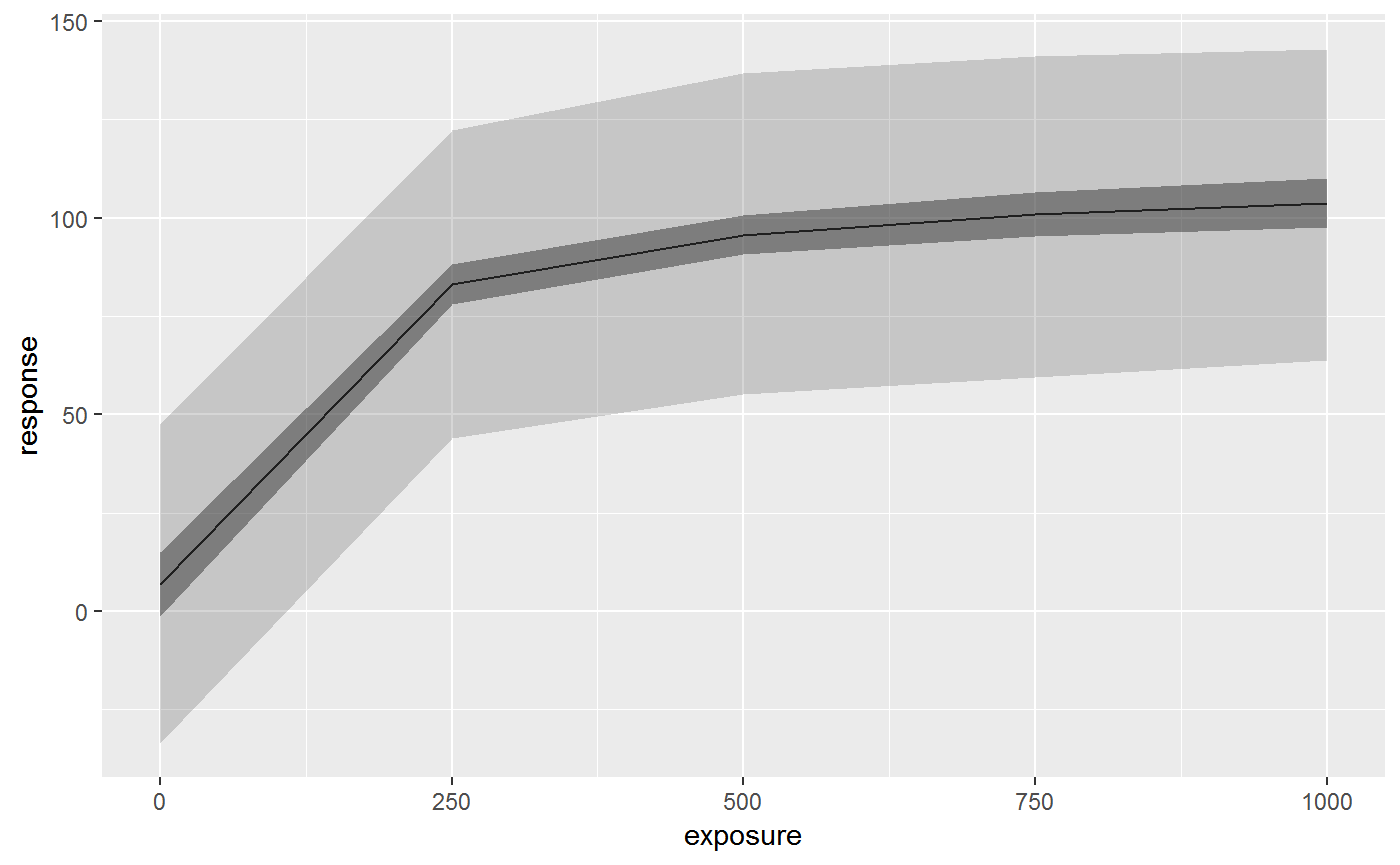
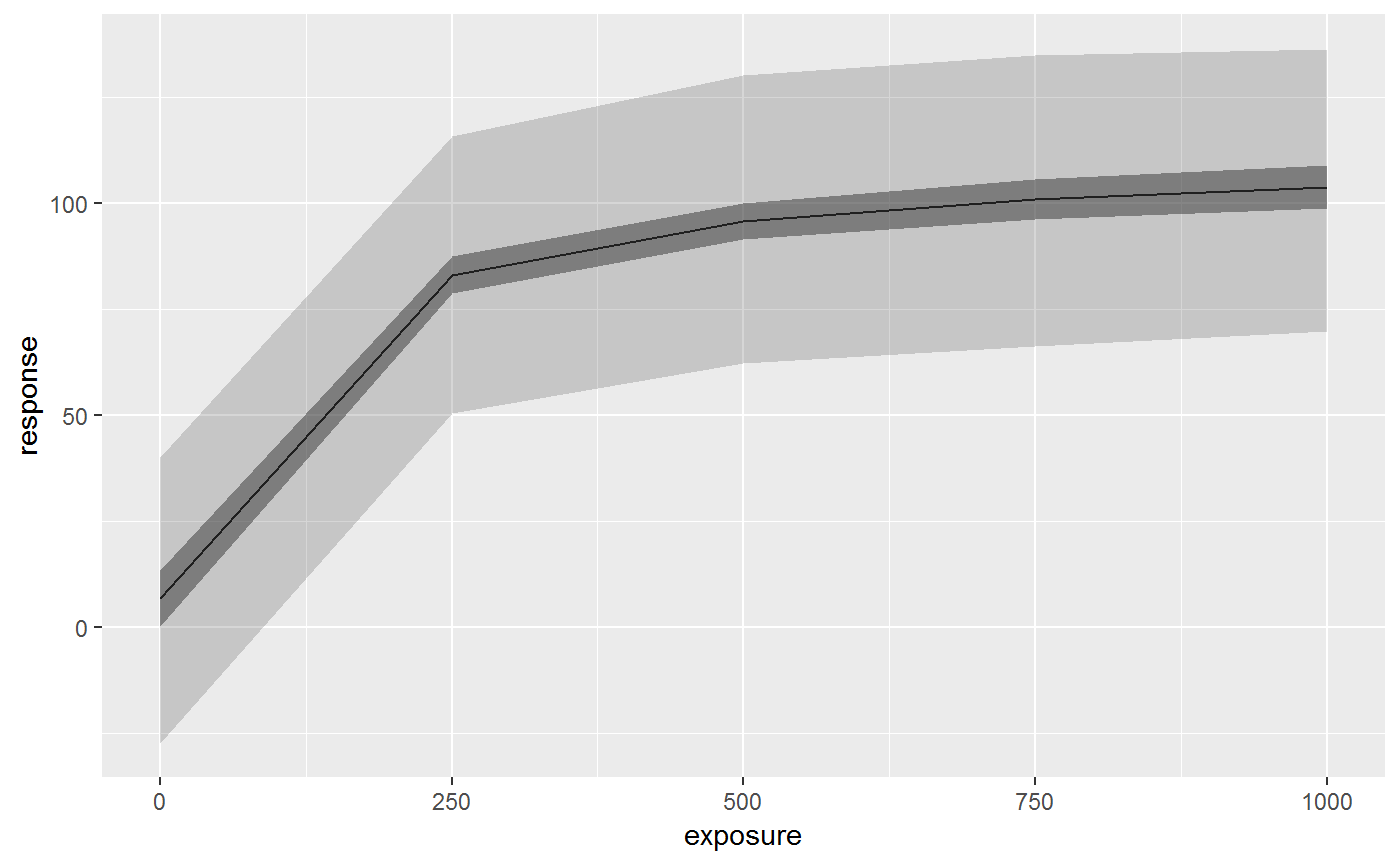
Update site

diff --git a/docs/articles/emaxmodel.html b/docs/articles/emaxmodel.html
@@ -30,7 +30,7 @@
       </button>
       <span class="navbar-brand">
         <a class="navbar-link" href="../index.html">rstanemax</a>
-        <span class="version label label-default" data-toggle="tooltip" data-placement="bottom" title="Released version">0.0.1.0</span>
+        <span class="version label label-default" data-toggle="tooltip" data-placement="bottom" title="Released version">0.1.0</span>
       </span>
     </div>
 
@@ -80,7 +80,7 @@
       <h1>Simple Emax model fit with Stan</h1>
                         <h4 class="author">Kenta Yoshida</h4>
             
-            <h4 class="date">2019-04-10</h4>
+            <h4 class="date">2019-05-28</h4>
       
       <small class="dont-index">Source: <a href="https://github.com/yoshidk6/rstanemax/blob/master/vignettes/emaxmodel.Rmd"><code>vignettes/emaxmodel.Rmd</code></a></small>
       <div class="hidden name"><code>emaxmodel.Rmd</code></div>
@@ -100,7 +100,7 @@
 <div id="model-run-with-stan_emax-function" class="section level2">
 <h2 class="hasAnchor">
 <a href="#model-run-with-stan_emax-function" class="anchor"></a>Model run with <code>stan_emax</code> function</h2>
-<p><code><a href="../reference/stan_emax.html">stan_emax()</a></code> is the main function of this package to perfrom Emax model analysis on the data. This function requires minimum two input arguments - <code>formula</code> and <code>data</code>. In the <code>formula</code> argument, you will specify which columns of <code>data</code> will be used as exposure and response data, in a format similar to <code><a href="https://www.rdocumentation.org/packages/stats/topics/lm">stats::lm()</a></code> function, e.g. <code>response ~ exposure</code>.</p>
+<p><code><a href="../reference/stan_emax.html">stan_emax()</a></code> is the main function of this package to perform Emax model analysis on the data. This function requires minimum two input arguments - <code>formula</code> and <code>data</code>. In the <code>formula</code> argument, you will specify which columns of <code>data</code> will be used as exposure and response data, in a format similar to <code><a href="https://www.rdocumentation.org/packages/stats/topics/lm">stats::lm()</a></code> function, e.g. <code>response ~ exposure</code>.</p>
 <div class="sourceCode"><pre class="sourceCode r"><code class="sourceCode r"><span class="kw"><a href="https://www.rdocumentation.org/packages/utils/topics/data">data</a></span>(exposure.response.sample)
 
 fit.emax &lt;-<span class="st"> </span><span class="kw"><a href="../reference/stan_emax.html">stan_emax</a></span>(response <span class="op">~</span><span class="st"> </span>exposure, <span class="dt">data =</span> exposure.response.sample)</code></pre></div>
@@ -116,7 +116,7 @@ fit.emax &lt;-<span class="st"> </span><span class="kw"><a href="../reference/st
 <span class="co">#&gt; gamma   1.00     NaN  0.00  1.00   1.00   1.00   1.00   1.00   NaN  NaN</span>
 <span class="co">#&gt; sigma  20.05    0.03  1.35 17.62  19.10  19.97  20.92  22.85  2930    1</span>
 <span class="co">#&gt; </span>
-<span class="co">#&gt; Samples were drawn using NUTS(diag_e) at Wed Apr 10 13:53:20 2019.</span>
+<span class="co">#&gt; Samples were drawn using NUTS(diag_e) at Tue May 28 22:02:37 2019.</span>
 <span class="co">#&gt; For each parameter, n_eff is a crude measure of effective sample size,</span>
 <span class="co">#&gt; and Rhat is the potential scale reduction factor on split chains (at </span>
 <span class="co">#&gt; convergence, Rhat=1).</span></code></pre></div>
@@ -150,23 +150,22 @@ response.pred <span class="op">%&gt;%</span><span class="st"> </span><span class
 <span class="co">#&gt;  9      3     1000  108.    130.   </span>
 <span class="co">#&gt; 10      4        0    4.16    3.16 </span>
 <span class="co">#&gt; # ... with 11,990 more rows</span></code></pre></div>
-<p>You can also get quantiles of predictions with <code><a href="../reference/posterior_predict.html">posterior_predict_quantile()</a></code> function. Currently this function only export 95% credible intervals of mean response and 95% prediction intervals of individual responses.</p>
+<p>You can also get quantiles of predictions with <code><a href="../reference/posterior_predict.html">posterior_predict_quantile()</a></code> function.</p>
 <div class="sourceCode"><pre class="sourceCode r"><code class="sourceCode r">resp.pred.quantile &lt;-<span class="st"> </span><span class="kw"><a href="../reference/posterior_predict.html">posterior_predict_quantile</a></span>(fit.emax, <span class="dt">newdata =</span> <span class="kw"><a href="https://www.rdocumentation.org/packages/base/topics/seq">seq</a></span>(<span class="dv">0</span>, <span class="dv">1000</span>, <span class="dt">by =</span> <span class="dv">250</span>))
 resp.pred.quantile
 <span class="co">#&gt; # A tibble: 5 x 7</span>
-<span class="co">#&gt;   exposure respHat025 respHat500 respHat975 response025 response500</span>
-<span class="co">#&gt;      &lt;dbl&gt;      &lt;dbl&gt;      &lt;dbl&gt;      &lt;dbl&gt;       &lt;dbl&gt;       &lt;dbl&gt;</span>
-<span class="co">#&gt; 1        0      -1.23       6.80       14.9       -33.5        6.09</span>
-<span class="co">#&gt; 2      250      77.9       83.1        88.3        44.0       83.7 </span>
-<span class="co">#&gt; 3      500      90.7       95.6       101.         55.2       95.6 </span>
-<span class="co">#&gt; 4      750      95.4      101.        107.         59.5      101.  </span>
-<span class="co">#&gt; 5     1000      97.7      104.        110.         63.8      103.  </span>
-<span class="co">#&gt; # ... with 1 more variable: response975 &lt;dbl&gt;</span></code></pre></div>
+<span class="co">#&gt;   exposure ci_low ci_med ci_high pi_low pi_med pi_high</span>
+<span class="co">#&gt;      &lt;dbl&gt;  &lt;dbl&gt;  &lt;dbl&gt;   &lt;dbl&gt;  &lt;dbl&gt;  &lt;dbl&gt;   &lt;dbl&gt;</span>
+<span class="co">#&gt; 1        0  0.162   6.80    13.4  -27.3   6.09    40.1</span>
+<span class="co">#&gt; 2      250 78.7    83.1     87.5   50.5  83.7    116. </span>
+<span class="co">#&gt; 3      500 91.6    95.6     99.9   62.2  95.6    130. </span>
+<span class="co">#&gt; 4      750 96.3   101.     106.    66.3 101.     135. </span>
+<span class="co">#&gt; 5     1000 98.9   104.     109.    69.8 103.     136.</span></code></pre></div>
 <p>This is particularly useful when you want to plot the estimated Emax curve.</p>
-<div class="sourceCode"><pre class="sourceCode r"><code class="sourceCode r"><span class="kw">ggplot</span>(resp.pred.quantile, <span class="kw">aes</span>(exposure, respHat500)) <span class="op">+</span>
+<div class="sourceCode"><pre class="sourceCode r"><code class="sourceCode r"><span class="kw">ggplot</span>(resp.pred.quantile, <span class="kw">aes</span>(exposure, ci_med)) <span class="op">+</span>
 <span class="st">  </span><span class="kw">geom_line</span>() <span class="op">+</span><span class="st"> </span>
-<span class="st">  </span><span class="kw">geom_ribbon</span>(<span class="kw">aes</span>(<span class="dt">ymin=</span>respHat025, <span class="dt">ymax=</span>respHat975), <span class="dt">alpha =</span> .<span class="dv">5</span>) <span class="op">+</span>
-<span class="st">  </span><span class="kw">geom_ribbon</span>(<span class="kw">aes</span>(<span class="dt">ymin=</span>response025, <span class="dt">ymax=</span>response975), <span class="dt">alpha =</span> .<span class="dv">2</span>) <span class="op">+</span>
+<span class="st">  </span><span class="kw">geom_ribbon</span>(<span class="kw">aes</span>(<span class="dt">ymin=</span>ci_low, <span class="dt">ymax=</span>ci_high), <span class="dt">alpha =</span> .<span class="dv">5</span>) <span class="op">+</span>
+<span class="st">  </span><span class="kw">geom_ribbon</span>(<span class="kw">aes</span>(<span class="dt">ymin=</span>pi_low, <span class="dt">ymax=</span>pi_high), <span class="dt">alpha =</span> .<span class="dv">2</span>) <span class="op">+</span>
 <span class="st">  </span><span class="kw">labs</span>(<span class="dt">y =</span> <span class="st">"response"</span>)</code></pre></div>
 <p><img src="emaxmodel_files/figure-html/unnamed-chunk-8-1.png" width="700"></p>
 </div>
@@ -191,7 +190,7 @@ fit.emax.sigmoidal &lt;-<span class="st"> </span><span class="kw"><a href="../re
 <span class="co">#&gt; gamma   1.02    0.00  0.21  0.64   0.88   1.01   1.15   1.48  1861    1</span>
 <span class="co">#&gt; sigma  20.13    0.02  1.30 17.82  19.22  20.05  20.93  22.89  2849    1</span>
 <span class="co">#&gt; </span>
-<span class="co">#&gt; Samples were drawn using NUTS(diag_e) at Wed Apr 10 13:53:30 2019.</span>
+<span class="co">#&gt; Samples were drawn using NUTS(diag_e) at Tue May 28 22:02:52 2019.</span>
 <span class="co">#&gt; For each parameter, n_eff is a crude measure of effective sample size,</span>
 <span class="co">#&gt; and Rhat is the potential scale reduction factor on split chains (at </span>
 <span class="co">#&gt; convergence, Rhat=1).</span></code></pre></div>
@@ -211,10 +210,10 @@ pred2 &lt;-<span class="st"> </span>
 pred &lt;-<span class="st"> </span><span class="kw">bind_rows</span>(pred1, pred2)
 
 
-<span class="kw">ggplot</span>(pred, <span class="kw">aes</span>(exposure, respHat500, <span class="dt">color =</span> model, <span class="dt">fill =</span> model)) <span class="op">+</span>
+<span class="kw">ggplot</span>(pred, <span class="kw">aes</span>(exposure, ci_med, <span class="dt">color =</span> model, <span class="dt">fill =</span> model)) <span class="op">+</span>
 <span class="st">  </span><span class="kw">geom_line</span>() <span class="op">+</span><span class="st"> </span>
-<span class="st">  </span><span class="kw">geom_ribbon</span>(<span class="kw">aes</span>(<span class="dt">ymin=</span>respHat025, <span class="dt">ymax=</span>respHat975), <span class="dt">alpha =</span> .<span class="dv">3</span>) <span class="op">+</span>
-<span class="st">  </span><span class="kw">geom_ribbon</span>(<span class="kw">aes</span>(<span class="dt">ymin=</span>response025, <span class="dt">ymax=</span>response975), <span class="dt">alpha =</span> .<span class="dv">1</span>, <span class="dt">color =</span> <span class="ot">NA</span>) <span class="op">+</span>
+<span class="st">  </span><span class="kw">geom_ribbon</span>(<span class="kw">aes</span>(<span class="dt">ymin=</span>ci_low, <span class="dt">ymax=</span>ci_high), <span class="dt">alpha =</span> .<span class="dv">3</span>) <span class="op">+</span>
+<span class="st">  </span><span class="kw">geom_ribbon</span>(<span class="kw">aes</span>(<span class="dt">ymin=</span>pi_low, <span class="dt">ymax=</span>pi_high), <span class="dt">alpha =</span> .<span class="dv">1</span>, <span class="dt">color =</span> <span class="ot">NA</span>) <span class="op">+</span>
 <span class="st">  </span><span class="kw">geom_point</span>(<span class="dt">data=</span>exposure.response.sample, <span class="kw">aes</span>(exposure, response), 
              <span class="dt">color =</span> <span class="st">"black"</span>, <span class="dt">fill =</span> <span class="ot">NA</span>, <span class="dt">size=</span><span class="dv">2</span>) <span class="op">+</span>
 <span class="st">  </span><span class="kw">labs</span>(<span class="dt">y =</span> <span class="st">"response"</span>)</code></pre></div>

diff --git a/docs/reference/stan_emax.html b/docs/reference/stan_emax.html
@@ -63,7 +63,7 @@
       </button>
       <span class="navbar-brand">
         <a class="navbar-link" href="../index.html">rstanemax</a>
-        <span class="version label label-default" data-toggle="tooltip" data-placement="bottom" title="Released version">0.0.1.0</span>
+        <span class="version label label-default" data-toggle="tooltip" data-placement="bottom" title="Released version">0.1.0</span>
       </span>
     </div>
 
@@ -175,8 +175,8 @@ Currently only supports normal distribution for priors.</p></td>
                   <span class='kw'>chains</span> <span class='kw'>=</span> <span class='fl'>1</span>, <span class='kw'>iter</span> <span class='kw'>=</span> <span class='fl'>500</span>, <span class='kw'>seed</span> <span class='kw'>=</span> <span class='fl'>12345</span>)</div><div class='output co'>#&gt; 
 #&gt; SAMPLING FOR MODEL 'emax' NOW (CHAIN 1).
 #&gt; Chain 1: 
-#&gt; Chain 1: Gradient evaluation took 0.001 seconds
-#&gt; Chain 1: 1000 transitions using 10 leapfrog steps per transition would take 10 seconds.
+#&gt; Chain 1: Gradient evaluation took 0.002 seconds
+#&gt; Chain 1: 1000 transitions using 10 leapfrog steps per transition would take 20 seconds.
 #&gt; Chain 1: Adjust your expectations accordingly!
 #&gt; Chain 1: 
 #&gt; Chain 1: 
@@ -193,9 +193,9 @@ Currently only supports normal distribution for priors.</p></td>
 #&gt; Chain 1: Iteration: 450 / 500 [ 90%]  (Sampling)
 #&gt; Chain 1: Iteration: 500 / 500 [100%]  (Sampling)
 #&gt; Chain 1: 
-#&gt; Chain 1:  Elapsed Time: 0.276 seconds (Warm-up)
-#&gt; Chain 1:                0.098 seconds (Sampling)
-#&gt; Chain 1:                0.374 seconds (Total)
+#&gt; Chain 1:  Elapsed Time: 0.479 seconds (Warm-up)
+#&gt; Chain 1:                0.176 seconds (Sampling)
+#&gt; Chain 1:                0.655 seconds (Total)
 #&gt; Chain 1: </div><div class='input'><span class='fu'><a href='https://www.rdocumentation.org/packages/base/topics/print'>print</a></span>(<span class='no'>fit1</span>)</div><div class='output co'>#&gt; Inference for Stan model: emax.
 #&gt; 1 chains, each with iter=500; warmup=250; thin=1; 
 #&gt; post-warmup draws per chain=250, total post-warmup draws=250.
@@ -207,19 +207,55 @@ Currently only supports normal distribution for priors.</p></td>
 #&gt; gamma   1.00     NaN  0.00  1.00   1.00   1.00   1.00   1.00   NaN  NaN
 #&gt; sigma  19.99    0.09  1.32 17.64  19.12  19.91  20.78  23.15   204    1
 #&gt; 
-#&gt; Samples were drawn using NUTS(diag_e) at Wed Apr 10 13:53:13 2019.
+#&gt; Samples were drawn using NUTS(diag_e) at Tue May 28 22:02:22 2019.
 #&gt; For each parameter, n_eff is a crude measure of effective sample size,
 #&gt; and Rhat is the potential scale reduction factor on split chains (at 
 #&gt; convergence, Rhat=1).</div><div class='input'>
-</div># NOT RUN {
-# Set priors manually
-fit2 <- stan_emax(response ~ exposure, data = exposure.response.sample, gamma.fix = NULL,
-                 priors = list(ec50  = c(100, 30), emax  = c(100, 30), e0 = c(10, 5),
-                               gamma = c(0, 3), sigma = c(0, 30)))
-)
+<span class='co'># Set priors manually, also estimate gamma instead of the default of fix to 1</span>
+<span class='no'>fit2</span> <span class='kw'>&lt;-</span> <span class='fu'>stan_emax</span>(<span class='no'>response</span> ~ <span class='no'>exposure</span>, <span class='kw'>data</span> <span class='kw'>=</span> <span class='no'>exposure.response.sample</span>, <span class='kw'>gamma.fix</span> <span class='kw'>=</span> <span class='kw'>NULL</span>,
+                  <span class='kw'>priors</span> <span class='kw'>=</span> <span class='fu'><a href='https://www.rdocumentation.org/packages/base/topics/list'>list</a></span>(<span class='kw'>ec50</span>  <span class='kw'>=</span> <span class='fu'><a href='https://www.rdocumentation.org/packages/base/topics/c'>c</a></span>(<span class='fl'>100</span>, <span class='fl'>30</span>), <span class='kw'>emax</span>  <span class='kw'>=</span> <span class='fu'><a href='https://www.rdocumentation.org/packages/base/topics/c'>c</a></span>(<span class='fl'>100</span>, <span class='fl'>30</span>), <span class='kw'>e0</span> <span class='kw'>=</span> <span class='fu'><a href='https://www.rdocumentation.org/packages/base/topics/c'>c</a></span>(<span class='fl'>10</span>, <span class='fl'>5</span>),
+                                <span class='kw'>gamma</span> <span class='kw'>=</span> <span class='fu'><a href='https://www.rdocumentation.org/packages/base/topics/c'>c</a></span>(<span class='fl'>0</span>, <span class='fl'>3</span>), <span class='kw'>sigma</span> <span class='kw'>=</span> <span class='fu'><a href='https://www.rdocumentation.org/packages/base/topics/c'>c</a></span>(<span class='fl'>0</span>, <span class='fl'>30</span>)),
+                  <span class='co'># the next line is only to make the example go fast enough</span>
+                  <span class='kw'>chains</span> <span class='kw'>=</span> <span class='fl'>1</span>, <span class='kw'>iter</span> <span class='kw'>=</span> <span class='fl'>500</span>, <span class='kw'>seed</span> <span class='kw'>=</span> <span class='fl'>12345</span>)</div><div class='output co'>#&gt; 
+#&gt; SAMPLING FOR MODEL 'emax' NOW (CHAIN 1).
+#&gt; Chain 1: 
+#&gt; Chain 1: Gradient evaluation took 0 seconds
+#&gt; Chain 1: 1000 transitions using 10 leapfrog steps per transition would take 0 seconds.
+#&gt; Chain 1: Adjust your expectations accordingly!
+#&gt; Chain 1: 
+#&gt; Chain 1: 
+#&gt; Chain 1: Iteration:   1 / 500 [  0%]  (Warmup)
+#&gt; Chain 1: Iteration:  50 / 500 [ 10%]  (Warmup)
+#&gt; Chain 1: Iteration: 100 / 500 [ 20%]  (Warmup)
+#&gt; Chain 1: Iteration: 150 / 500 [ 30%]  (Warmup)
+#&gt; Chain 1: Iteration: 200 / 500 [ 40%]  (Warmup)
+#&gt; Chain 1: Iteration: 250 / 500 [ 50%]  (Warmup)
+#&gt; Chain 1: Iteration: 251 / 500 [ 50%]  (Sampling)
+#&gt; Chain 1: Iteration: 300 / 500 [ 60%]  (Sampling)
+#&gt; Chain 1: Iteration: 350 / 500 [ 70%]  (Sampling)
+#&gt; Chain 1: Iteration: 400 / 500 [ 80%]  (Sampling)
+#&gt; Chain 1: Iteration: 450 / 500 [ 90%]  (Sampling)
+#&gt; Chain 1: Iteration: 500 / 500 [100%]  (Sampling)
+#&gt; Chain 1: 
+#&gt; Chain 1:  Elapsed Time: 0.44 seconds (Warm-up)
+#&gt; Chain 1:                0.135 seconds (Sampling)
+#&gt; Chain 1:                0.575 seconds (Total)
+#&gt; Chain 1: </div><div class='input'><span class='fu'><a href='https://www.rdocumentation.org/packages/base/topics/print'>print</a></span>(<span class='no'>fit2</span>)</div><div class='output co'>#&gt; Inference for Stan model: emax.
+#&gt; 1 chains, each with iter=500; warmup=250; thin=1; 
+#&gt; post-warmup draws per chain=250, total post-warmup draws=250.
+#&gt; 
+#&gt;         mean se_mean    sd  2.5%   25%    50%    75%  97.5% n_eff Rhat
+#&gt; emax  104.45    0.60  7.05 91.19 99.74 104.13 109.68 119.29   138 1.02
+#&gt; e0      8.05    0.30  3.14  1.48  5.89   8.14  10.51  13.32   113 1.00
+#&gt; ec50   99.25    1.33 16.78 71.46 86.49  97.63 109.85 134.01   160 1.00
+#&gt; gamma   1.07    0.02  0.17  0.79  0.95   1.05   1.17   1.45   122 1.02
+#&gt; sigma  20.08    0.09  1.35 17.65 19.16  20.05  20.87  22.65   207 1.00
+#&gt; 
+#&gt; Samples were drawn using NUTS(diag_e) at Tue May 28 22:02:25 2019.
+#&gt; For each parameter, n_eff is a crude measure of effective sample size,
+#&gt; and Rhat is the potential scale reduction factor on split chains (at 
+#&gt; convergence, Rhat=1).</div><div class='input'>
 
-# }
-<div class='input'>
 </div></pre>
   </div>
   <div class="col-md-3 hidden-xs hidden-sm" id="sidebar">

diff --git a/docs/index.html b/docs/index.html
@@ -5,12 +5,12 @@
 <meta charset="utf-8">
 <meta http-equiv="X-UA-Compatible" content="IE=edge">
 <meta name="viewport" content="width=device-width, initial-scale=1.0">
-<title>Emax model analysis with Stan • rstanemax</title>
+<title>Emax Model Analysis with 'Stan' • rstanemax</title>
 <!-- jquery --><script src="https://cdnjs.cloudflare.com/ajax/libs/jquery/3.3.1/jquery.min.js" integrity="sha256-FgpCb/KJQlLNfOu91ta32o/NMZxltwRo8QtmkMRdAu8=" crossorigin="anonymous"></script><!-- Bootstrap --><link rel="stylesheet" href="https://cdnjs.cloudflare.com/ajax/libs/twitter-bootstrap/3.3.7/css/bootstrap.min.css" integrity="sha256-916EbMg70RQy9LHiGkXzG8hSg9EdNy97GazNG/aiY1w=" crossorigin="anonymous">
 <script src="https://cdnjs.cloudflare.com/ajax/libs/twitter-bootstrap/3.3.7/js/bootstrap.min.js" integrity="sha256-U5ZEeKfGNOja007MMD3YBI0A3OSZOQbeG6z2f2Y0hu8=" crossorigin="anonymous"></script><!-- Font Awesome icons --><link rel="stylesheet" href="https://cdnjs.cloudflare.com/ajax/libs/font-awesome/4.7.0/css/font-awesome.min.css" integrity="sha256-eZrrJcwDc/3uDhsdt61sL2oOBY362qM3lon1gyExkL0=" crossorigin="anonymous">
 <!-- clipboard.js --><script src="https://cdnjs.cloudflare.com/ajax/libs/clipboard.js/2.0.4/clipboard.min.js" integrity="sha256-FiZwavyI2V6+EXO1U+xzLG3IKldpiTFf3153ea9zikQ=" crossorigin="anonymous"></script><!-- sticky kit --><script src="https://cdnjs.cloudflare.com/ajax/libs/sticky-kit/1.1.3/sticky-kit.min.js" integrity="sha256-c4Rlo1ZozqTPE2RLuvbusY3+SU1pQaJC0TjuhygMipw=" crossorigin="anonymous"></script><!-- pkgdown --><link href="pkgdown.css" rel="stylesheet">
-<script src="pkgdown.js"></script><meta property="og:title" content="Emax model analysis with Stan">
-<meta property="og:description" content="Perform sigmoidal Emax model fit using Stan in a formula notation, without writing Stan model code.">
+<script src="pkgdown.js"></script><meta property="og:title" content="Emax Model Analysis with 'Stan'">
+<meta property="og:description" content="Perform sigmoidal Emax model fit using 'Stan' in a formula notation, without writing 'Stan' model code.">
 <meta name="twitter:card" content="summary">
 <!-- mathjax --><script src="https://cdnjs.cloudflare.com/ajax/libs/mathjax/2.7.5/MathJax.js" integrity="sha256-nvJJv9wWKEm88qvoQl9ekL2J+k/RWIsaSScxxlsrv8k=" crossorigin="anonymous"></script><script src="https://cdnjs.cloudflare.com/ajax/libs/mathjax/2.7.5/config/TeX-AMS-MML_HTMLorMML.js" integrity="sha256-84DKXVJXs0/F8OTMzX4UR909+jtl4G7SPypPavF+GfA=" crossorigin="anonymous"></script><!--[if lt IE 9]>
 <script src="https://oss.maxcdn.com/html5shiv/3.7.3/html5shiv.min.js"></script>
@@ -30,7 +30,7 @@
       </button>
       <span class="navbar-brand">
         <a class="navbar-link" href="index.html">rstanemax</a>
-        <span class="version label label-default" data-toggle="tooltip" data-placement="bottom" title="Released version">0.0.1.0</span>
+        <span class="version label label-default" data-toggle="tooltip" data-placement="bottom" title="Released version">0.1.0</span>
       </span>
     </div>
 
@@ -83,8 +83,9 @@
 <a href="#introduction-to-rstanemax" class="anchor"></a>Introduction to <strong>rstanemax</strong>
 </h1></div>
 <p>This small package performs simple sigmoidal Emax model fit using Stan, without the need of writing Stan model code, inspired by <strong>rstanarm</strong> package.</p>
-<p><strong>rstanarm</strong> package (<a href="https://mc-stan.org/users/interfaces/rstanarm">link</a>) is a very flexible, general purpose tool to perform various Bayesian modeling with formula notations, such as generalized mixed effect models or joint models. One small gap it has is nonlinear model fitting, where it only accepts nonlinear functions defined in stats package with <code>SS</code> prefixes (<a href="http://mc-stan.org/rstanarm/articles/glmer.html#relationship-to-nlmer">link</a>). Unfortunately the (sigmoidal) Emax model, one of the most commonly used nonlinear functions in the field of pharmacometrics, is not among the available functions. The <strong>rstanarm</strong> package also seems to be assuming that we fit nonlinear mixed effect models, but not simple nonlinear models without mixed effects.</p>
+<p><strong>rstanarm</strong> package (<a href="https://mc-stan.org/users/interfaces/rstanarm">link</a>) is a very flexible, general purpose tool to perform various Bayesian modeling with formula notations, such as generalized mixed effect models or joint models. One small gap it has is in nonlinear model fitting, where it only accepts nonlinear functions defined in stats package with <code>SS</code> prefixes (<a href="http://mc-stan.org/rstanarm/articles/glmer.html#relationship-to-nlmer">link</a>). Unfortunately the (sigmoidal) Emax model, one of the most commonly used nonlinear functions in the field of pharmacometrics, is not among the available functions. The <strong>rstanarm</strong> package also seems to be assuming that we fit nonlinear mixed effect models, but not simple nonlinear models without mixed effects.</p>
 <p>I hope this <strong>rstanemax</strong> package will fill the niche gap, allow for easier implementation of Emax model in Bayesian framework, and enable routine uses in the pharmacokinetic/pharmacodynamic field.</p>
+<p>This package was build using <strong>rstantools</strong> (<a href="https://mc-stan.org/rstantools/">link</a>) following a very helpful step-by-step guide (<a href="https://mc-stan.org/rstantools/articles/minimal-rstan-package.html">link</a>) on creating a package that depends on RStan.</p>
 </div>
 <div id="installation" class="section level1">
 <h1 class="hasAnchor">
@@ -142,6 +143,7 @@ fit.emax</code></pre>
 <h2>Developers</h2>
 <ul class="list-unstyled">
 <li>Kenta Yoshida <br><small class="roles"> Author, maintainer </small> <a href="https://orcid.org/0000-0003-4967-3831" target="orcid.widget"><img src="https://members.orcid.org/sites/default/files/vector_iD_icon.svg" class="orcid" alt="ORCID" height="16"></a> </li>
+<li><a href="authors.html">All authors...</a></li>
 </ul>
 </div>
 

diff --git a/docs/reference/posterior_predict.html b/docs/reference/posterior_predict.html
@@ -64,7 +64,7 @@ Exposure data for prediction can be either original data used for model fit or n
       </button>
       <span class="navbar-brand">
         <a class="navbar-link" href="../index.html">rstanemax</a>
-        <span class="version label label-default" data-toggle="tooltip" data-placement="bottom" title="Released version">0.0.1.0</span>
+        <span class="version label label-default" data-toggle="tooltip" data-placement="bottom" title="Released version">0.1.0</span>
       </span>
     </div>
 
@@ -128,7 +128,8 @@ Exposure data for prediction can be either original data used for model fit or n
 <span class='fu'>posterior_predict</span>(<span class='no'>object</span>, <span class='kw'>newdata</span> <span class='kw'>=</span> <span class='kw'>NULL</span>,
   <span class='kw'>returnType</span> <span class='kw'>=</span> <span class='fu'><a href='https://www.rdocumentation.org/packages/base/topics/c'>c</a></span>(<span class='st'>"matrix"</span>, <span class='st'>"dataframe"</span>, <span class='st'>"tibble"</span>), <span class='no'>...</span>)
 
-<span class='fu'>posterior_predict_quantile</span>(<span class='no'>object</span>, <span class='kw'>newdata</span> <span class='kw'>=</span> <span class='kw'>NULL</span>)</pre>
+<span class='fu'>posterior_predict_quantile</span>(<span class='no'>object</span>, <span class='kw'>newdata</span> <span class='kw'>=</span> <span class='kw'>NULL</span>, <span class='kw'>ci</span> <span class='kw'>=</span> <span class='fl'>0.9</span>,
+  <span class='kw'>pi</span> <span class='kw'>=</span> <span class='fl'>0.9</span>)</pre>
     
     <h2 class="hasAnchor" id="arguments"><a class="anchor" href="#arguments"></a>Arguments</h2>
     <table class="ref-arguments">
@@ -156,11 +157,11 @@ Exposure data for prediction can be either original data used for model fit or n
     <p>An object that contain predicted response with posterior distribution of parameters.
 The default is a matrix containing predicted response.
 Each row of the matrix is a vector of predictions generated using a single draw of the model parameters from the posterior distribution.</p>
-<p>If either __dataframe__ or __tibble__ is specified, the function returns a data frame or tibble object in a long format -
+<p>If either _dataframe_ or _tibble_ is specified, the function returns a data frame or tibble object in a long format -
 each row is a prediction generated using a single draw of the model parameters and a corresponding exposure.</p>
 <p>Two types of predictions are generated with this function.
-__respHat__ corresponds to the prediction without considering residual variability and is intended to provide credible interval of "mean" response.
-__response__ include residual variability in its calculation, therefore the range represents prediction interval of observed response.</p>
+_respHat_ corresponds to the prediction without considering residual variability and is intended to provide credible interval of "mean" response.
+_response_ include residual variability in its calculation, therefore the range represents prediction interval of observed response.</p>
 <p>The return object also contains exposure and parameter values used for calculation.</p>
     
     <h2 class="hasAnchor" id="details"><a class="anchor" href="#details"></a>Details</h2>

diff --git a/docs/authors.html b/docs/authors.html
@@ -60,7 +60,7 @@
       </button>
       <span class="navbar-brand">
         <a class="navbar-link" href="index.html">rstanemax</a>
-        <span class="version label label-default" data-toggle="tooltip" data-placement="bottom" title="Released version">0.0.1.0</span>
+        <span class="version label label-default" data-toggle="tooltip" data-placement="bottom" title="Released version">0.1.0</span>
       </span>
     </div>
 
@@ -115,6 +115,10 @@
       <li>
         <p><strong>Kenta Yoshida</strong>. Author, maintainer. <a href='https://orcid.org/0000-0003-4967-3831' target='orcid.widget'><img src='https://members.orcid.org/sites/default/files/vector_iD_icon.svg' class='orcid' alt='ORCID' height='16'></a>
         </p>
+      </li>
+      <li>
+        <p><strong>Trustees of Columbia University</strong>. Copyright holder. 
+        <br /><small>src/init.cpp, tools/make_cc.R, R/stanmodels.R</small></p>
       </li>
     </ul>
 

diff --git a/docs/articles/index.html b/docs/articles/index.html
@@ -60,7 +60,7 @@
       </button>
       <span class="navbar-brand">
         <a class="navbar-link" href="../index.html">rstanemax</a>
-        <span class="version label label-default" data-toggle="tooltip" data-placement="bottom" title="Released version">0.0.1.0</span>
+        <span class="version label label-default" data-toggle="tooltip" data-placement="bottom" title="Released version">0.1.0</span>
       </span>
     </div>
 

diff --git a/docs/reference/exposure.response.sample.html b/docs/reference/exposure.response.sample.html
@@ -63,7 +63,7 @@
       </button>
       <span class="navbar-brand">
         <a class="navbar-link" href="../index.html">rstanemax</a>
-        <span class="version label label-default" data-toggle="tooltip" data-placement="bottom" title="Released version">0.0.1.0</span>
+        <span class="version label label-default" data-toggle="tooltip" data-placement="bottom" title="Released version">0.1.0</span>
       </span>
     </div>
 

diff --git a/docs/reference/index.html b/docs/reference/index.html
@@ -60,7 +60,7 @@
       </button>
       <span class="navbar-brand">
         <a class="navbar-link" href="../index.html">rstanemax</a>
-        <span class="version label label-default" data-toggle="tooltip" data-placement="bottom" title="Released version">0.0.1.0</span>
+        <span class="version label label-default" data-toggle="tooltip" data-placement="bottom" title="Released version">0.1.0</span>
       </span>
     </div>
 

diff --git a/docs/reference/pipe.html b/docs/reference/pipe.html
@@ -63,7 +63,7 @@
       </button>
       <span class="navbar-brand">
         <a class="navbar-link" href="../index.html">rstanemax</a>
-        <span class="version label label-default" data-toggle="tooltip" data-placement="bottom" title="Released version">0.0.1.0</span>
+        <span class="version label label-default" data-toggle="tooltip" data-placement="bottom" title="Released version">0.1.0</span>
       </span>
     </div>
 

diff --git a/docs/reference/rstanemax-package.html b/docs/reference/rstanemax-package.html
@@ -63,7 +63,7 @@
       </button>
       <span class="navbar-brand">
         <a class="navbar-link" href="../index.html">rstanemax</a>
-        <span class="version label label-default" data-toggle="tooltip" data-placement="bottom" title="Released version">0.0.1.0</span>
+        <span class="version label label-default" data-toggle="tooltip" data-placement="bottom" title="Released version">0.1.0</span>
       </span>
     </div>
 

diff --git a/docs/reference/stanemax-methods.html b/docs/reference/stanemax-methods.html
@@ -63,7 +63,7 @@
       </button>
       <span class="navbar-brand">
         <a class="navbar-link" href="../index.html">rstanemax</a>
-        <span class="version label label-default" data-toggle="tooltip" data-placement="bottom" title="Released version">0.0.1.0</span>
+        <span class="version label label-default" data-toggle="tooltip" data-placement="bottom" title="Released version">0.1.0</span>
       </span>
     </div>
 

diff --git a/docs/LICENSE-text.html b/docs/LICENSE-text.html
@@ -60,7 +60,7 @@
       </button>
       <span class="navbar-brand">
         <a class="navbar-link" href="index.html">rstanemax</a>
-        <span class="version label label-default" data-toggle="tooltip" data-placement="bottom" title="Released version">0.0.1.0</span>
+        <span class="version label label-default" data-toggle="tooltip" data-placement="bottom" title="Released version">0.1.0</span>
       </span>
     </div>
 
